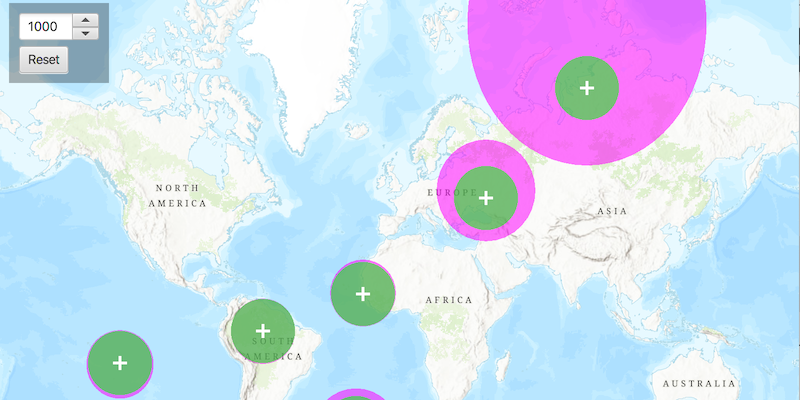
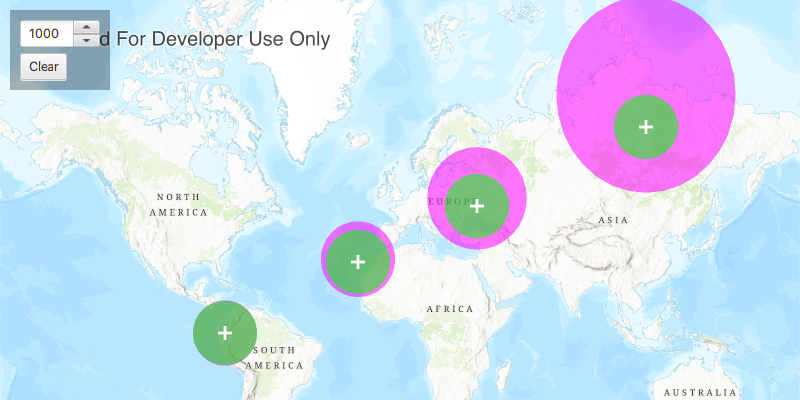
rename reset button to clear and update image

diff --git a/geometry/buffer/src/main/java/com/esri/samples/buffer/BufferSample.java b/geometry/buffer/src/main/java/com/esri/samples/buffer/BufferSample.java
@@ -123,9 +123,9 @@ public class BufferSample extends Application {
       });
 
       // create a button to clear graphics and reset sample
-      Button resetButton = new Button("Reset");
+      Button clearButton = new Button("Clear");
       // clear the graphics overlay when the reset button is clicked
-      resetButton.setOnMouseClicked(event -> graphicsOverlay.getGraphics().clear());
+      clearButton.setOnMouseClicked(event -> graphicsOverlay.getGraphics().clear());
 
       // create a vbox that contains the spinner and reset button
       VBox controlsVBox = new VBox(6);
@@ -133,7 +133,7 @@ public class BufferSample extends Application {
         Insets.EMPTY)));
       controlsVBox.setPadding(new Insets(10.0));
       controlsVBox.setMaxSize(100, 75);
-      controlsVBox.getChildren().addAll(bufferSpinner, resetButton);
+      controlsVBox.getChildren().addAll(bufferSpinner, clearButton);
       // add the map view and vbox to the stack pane
       stackPane.getChildren().addAll(mapView, controlsVBox);
       StackPane.setAlignment(controlsVBox, Pos.TOP_LEFT);

diff --git a/geometry/buffer/README.md b/geometry/buffer/README.md
@@ -10,7 +10,7 @@ Creating buffers is a core concept in GIS proximity analysis that allows you to 
 
 ## How to use the sample
 
-Click on the map. A planar and a geodesic buffer will be created at the click location using the distance (miles) specified in the text box. Continue clicking to create additional buffers. Notice that buffers closer to the equator appear similar in size. As you move north or south from the equator, however, the geodesic polygons become much larger. Geodesic polygons are in fact a better representation of the true shape and size of the buffer.
+Click on the map. A planar and a geodesic buffer will be created at the click location using the distance (miles) specified in the text box. Continue clicking to create additional buffers. Notice that buffers closer to the equator appear similar in size. As you move north or south from the equator, however, the geodesic polygons become much larger. Geodesic polygons are in fact a better representation of the true shape and size of the buffer. Click "Clear" to clear the buffers from the map.
 
 ## How it works
 
